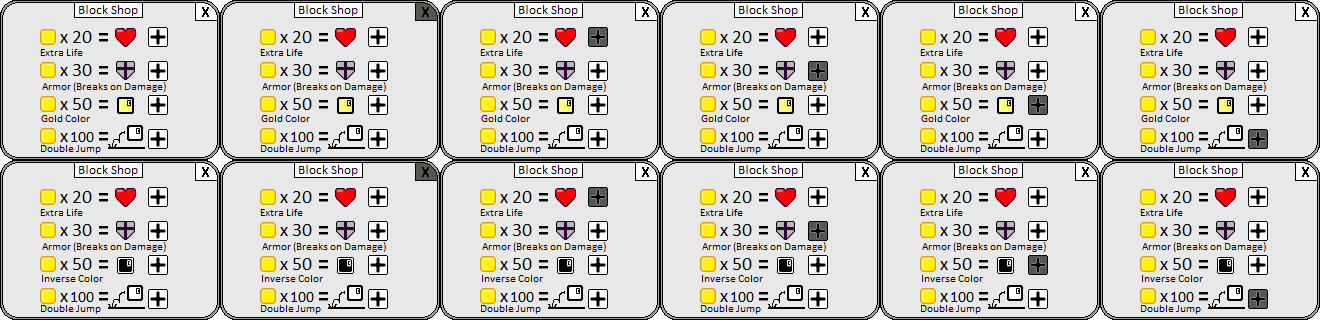
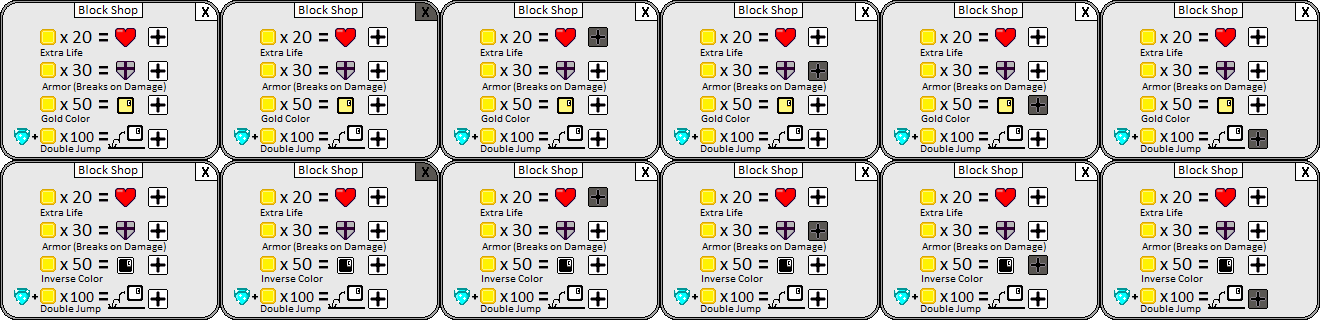
Diamond tracker and boss changes

diff --git a/Block Run/js/Levels.js b/Block Run/js/Levels.js
@@ -67,27 +67,39 @@ var level_1 = [
  ];
  
  var level_3 = [
-    '#                                                                                                    ###############################################################',
-    '#                                                                                                   K#                                                       #     #',
-    '#                                                                                         TTT        #                                                       #     #',
-    '#                                                o   o    oo                   o o                   #                                                       #     #',
-    '#S                                               #vvv#    __    E             _____                  #                                                       #     #',
-    '#                   o      oo       o            #####         #######                               #                                                       #     #',
-    '#                  ##      ##       ##     o  o    #                                                 #           o     o     o                               #     #',
-    '#         ####                             ####    #vvvvvvvvvvvvvvvvvv                               #    ##<   >#<    o    >#<   ##         o               #     #',
-    '#        #####                                     ###################   ##                          #   ###<   >#<   >#<   >#<   ###        v               #     #',
-    '#       ######vvvvvvvvvvvvvvvvvvvvv vvvvvvvvvvvvvvv#             #   L   ##                          L  ####vvvvv#vvvvv#vvvvv#vvvv####E     >#<E             L  P  #',
-    '################################### ##############################  ###################################################################################o  ##########', 
-    '###################################  K o   o   o   o   o   o   o H  #                                                                                 #   #        #',
-    '#                                  _________________________________                                                                                  #   #        #',   
-    '#                                                                                                                                                     #_  #        #',
-    '#                                                                                                                                                     #   #        #',
-    '#             o o o                                                                                                   o    vv    o                    #  o#        #',   
-    '#S                                                      o    oo     o                  o K o                         #### >##< ####S                  #  _#        #',   
-    '#  ooo       #######S                                 >##<  >##<  >##<               #########                 oo         >##<         oo                          #',
-    '#  oHo      #########          #     #    #            ^^    ^^    ^^               #         #               ___#         ^^         #___              o          #', 
-    '#  ooo     ###########        ##vvvvv#vvvv#E     #vvvvvvvvvvvvvvvvvvvvvvvv#        #           #                 #vvvvvvvvvvvvvvvvvvvv#              #######       #',  
-    '####################################################################################################################################################################',    
+    '#                                                                                                    ###############################################################                                                ',
+    '#                                                                                                   K#                                                       #     #                                                ',
+    '#                                                                                        TTT         #                                                       #     #                                                ',
+    '#                                                o   o    oo                   o o                   #                                                       #     #                                                ',
+    '#S                                               #vvv#    __   E              _____                  #                                                       #     #                                                ',
+    '#                   o      oo       o            #####         ######                                #                                                       #     #                                                ',
+    '#                  ##      ##       ##     o  o    #                                                 #           o     o     o                               #     #                                                ',
+    '#         ####                             ####    #vvvvvvvvvvvvvvvvvv   ##                          #    ##<   >#<    o    >#<   ##         o               #     #                                                ',
+    '#        #####                                     ###################   ##                          #   ###<   >#<   >#<   >#<   ###        v               #     #                                                ',
+    '#       ######vvvvvvvvvvvvvvvvvvvvv vvvvvvvvvvvvvvv#             #   L  ####                         L  ####vvvvv#vvvvv#vvvvv#vvvv####E     >#<E             L  P  #                                                ',
+    '################################### ##############################  ###################################################################################o  ##########                                                ', 
+    '###################################  K o   o   o   o   o   o   o H  #                                                                                 #   #        #                                                ',
+    '#                                  _________________________________                                                                                  #   #        #                                                ',   
+    '#                                                                                                                                                     #_  #        #                                                ',
+    '#             o o o                                                                                                                                   #   #        #                                                ',
+    '#             o H o                                                                                                   o    vv    o                    #  o#        #                                                ',   
+    '#S            o o o                                     o    oo     o                  o K o                         #### >##< ####S                  #  _#        #                                                ',   
+    '######        ##### S                                 >##<  >##<  >##<               #########                 oo         >##<         oo                          #                      TTTT                      ',
+    '#    #       #######           #     #    #            ^^    ^^    ^^               #         #               ___#         ^^         #___              o          #                                                ', 
+    '#  D l   M  #########         ##vvvvv#vvvv#E     #vvvvvvvvvvvvvvvvvvvvvvvv#        #           #                 #vvvvvvvvvvvvvvvvvvvv#              #######       #vvvvvvvvvvvvvvvvvvvvvvvvvvvvv                   ',  
+    '#____############################################################################################################################################################################################~                 ',    
+    '#                                                                                                                                                  T                                     T                         ',
+    '#                                                                                                                                                  T                                     T                         ',
+    '#____                                                               k                                                                              T        S              S             T                          ',
+    '#                                    T                              T                                                               T              T S                               S  kT                          ',
+    '#                                                                              o                                                           T       T       ~        ~        ~         ~ T                          ',
+    '#____                                        T              T                  T        T                                 o                        T            S                        T                          ',
+    '#                                                                                               o                        TTT                      TT  ~   S                              T                         ',
+    '#                                                    T                                          T                                                  T                 S                 S T                         ',
+    '#____            oooo                                       oo      oo                                         o                           T       l      ~                                     STT                T',
+    '#          T     TTTT                                       TT      TT                                T        T                                  TTT         ~       ~ S      ~       TTTTT     TT                T',
+    '#vvvvvvvvvvvvvvvvvvvvvvvvvvvvvvvvvvvvvvvvvvvvvvvvvvvvvvvvvvvvvvvvvvvvvvvvvvvvvvvvvvvvvvvvvvvvvvvvvvvvvvvvvvvvvvvvvvvvvvvvvvvvvvvvvvvvvvvvvvvvvvvvvvvvvvvvvvvvvvvvvvvvvvvvvvvvvvvvvvvvvvvvvvvvvvvvvvvvvvvvvvvvvvvvvvv',
+    '####################################################################################################################################################################################################################',   
  ];
  
  var level_4 = [
@@ -118,12 +130,12 @@ var level_1 = [
    '#                       ##############    ',
    '#                       #            #    ',
    '#                       #            #    ',
-   '#                       #            ##   ',
-   '#                       #            # #  ',
-   '#                 R     #            #  # ',
-   '#    ~     ~      ~     #            #   #',
-   '#                       #            #   #',
-   '#                       L   P     M  l D #',
+   '#                       #             #   ',
+   '#                       #              #  ',
+   '#                 R     #               # ',
+   '#    ~     ~      ~     #                #',
+   '#                       #                #',
+   '#                       L   D    M    P  #',
    '##########################################', 
    '##########################################',    
 ];

diff --git a/Block Run/js/Shop.js b/Block Run/js/Shop.js
@@ -11,6 +11,7 @@ function Button(x, y, w, h, cost, callback) {
         if(this.canBuy()) {
             callback();
             COINS -= this.cost;
+            if(this.cost == 100) DIAMONDS--; // Double Jump cost a diamond.
             saveGame();
         }
     }
@@ -20,7 +21,7 @@ function Button(x, y, w, h, cost, callback) {
         return MouseX > this.x && MouseY > this.y && MouseX < this.x + this.w && MouseY < this.y + this.h;
     }
 
-    this.canBuy = function() { return this.condition && COINS > this.cost; }
+    this.canBuy = function() { return this.condition && COINS >= this.cost; }
 
     this.drawDisabled = function() {
         if(!this.canBuy()) {
@@ -78,7 +79,7 @@ function Shop() {
             this.onButton = -1;
             armorBtn.condition = !ARMOR;
             colorBtn.condition = player.colors.length - 1 > player.unlockedColors;
-            doubleJumpBtn.condition = player.canDoubleJump == false;
+            doubleJumpBtn.condition = player.canDoubleJump == false && DIAMONDS > 0;
 
             // Determine which button our mouse is over and determine the frame to draw based on it.
             for (let i = 0; i < buttons.length; i++) {
@@ -137,12 +138,12 @@ function Npc(x, y, type, index) {
     this.frameX = 0;
     this.active = false;
     this.index = index;
-    this.text = "I'm a diamond miner. If you happen to find any you can \n bring them to me to unlock rare items!";
+    this.text = "I'm a diamond miner. You can use them to purchase \n rare items and abilities!";
 
     if(this.type == "Miner" && this.index == 1) this.text = "If you had Double Jump and Armor you might be able to get \n to the diamond up there somehow."
     if(this.type == "Miner" && this.index == 2) this.text = "Maybe there is another way to get over there. \n Looks like there is a path from underground."
     if(this.type == "Miner" && this.index == 4) this.text = "There must be a silver key around somewhere. Such a \n shinny diamond so close to us!"
-    if(this.type == "Miner" && this.index == 5) this.text = "Congratulations on beating Big Red! I hear if you can \n kill him without double jump you get another key."
+    if(this.type == "Miner" && this.index == 5) this.text = "Congratulations on beating Big Red and he had a diamond! \nThat may allow you to find more them in pervious levels."
     if(this.type == "Mayor" && this.index == 0) this.text = "That Big Red has blocked the way to to rest of our town! \n If someone could defeat him maybe the way will open up."
     if(this.type == "Mayor" && this.index == 2) this.text = "Seems like Big Red's older brother Dark Red has been \n locked away down here. Be carefull!"
 

diff --git a/Block Run/js/Map.js b/Block Run/js/Map.js
@@ -13,6 +13,7 @@ var scrollY = 0;
 var yLevel = 0;
 var yLevelMax = document.getElementById("canvas").height - 32 + 1;
 var UnlockedLevels = [true, true, false, false, false, false];
+var DiamondsCollected = [false, false, false, false, false, false];
 
 var canvas = document.getElementById("canvas");
 var ctx = canvas.getContext("2d");
@@ -64,7 +65,7 @@ function action() {
 }
 
 function saveGame(){
-    let gameData = {"COINS": COINS, "HEARTS": HEARTS, "ARMOR": ARMOR, "UnlockedLevels": UnlockedLevels, "UnlockedColors": player.unlockedColors, "DoubleJump": player.canDoubleJump};
+    let gameData = {"COINS": COINS, "HEARTS": HEARTS, "ARMOR": ARMOR, "DIAMONDS": DIAMONDS, "UnlockedLevels": UnlockedLevels, "DiamondsCollected": DiamondsCollected, "UnlockedColors": player.unlockedColors, "DoubleJump": player.canDoubleJump};
     localStorage.setItem("BlockRunData", JSON.stringify(gameData));
     console.log("Game Saved");
 }
@@ -75,7 +76,9 @@ function loadGame(){
         COINS = gameData.COINS;
         HEARTS = gameData.HEARTS;
         ARMOR = gameData.ARMOR;
+        DIAMONDS = gameData.DIAMONDS;
         UnlockedLevels = gameData.UnlockedLevels;
+        DiamondsCollected = gameData.DiamondsCollected || DiamondsCollected;
         player.unlockedColors = gameData.UnlockedColors;
         player.canDoubleJump = gameData.DoubleJump ? true : false;
         console.log("Game Loaded");
@@ -139,7 +142,7 @@ function createMap(index) {
             else if(char == '~') items.push(new FallingPlatform(x, y)); 
             else if(char == 'o') items.push(new Coin(x, y));
             else if(char == 'H') items.push(new Heart(x, y));
-            else if(char == 'D') items.push(new Diamond(x, y)); 
+            else if(char == 'D') items.push(new Diamond(x, y, index)); 
             else if(char == 'E') items.push(new Enemy(x, y, 40, 52, images["enemies"], 4, 5, 2, "red block"));
             else if(char == 'S') items.push(new Enemy(x, y, 30, 30, images["enemy_spike"], 4, 5, 2, "spike"));
             else if(char == 'P' || Number.parseInt(char)) items.push(new Portal(x, y, char));

diff --git a/Block Run/js/Player.js b/Block Run/js/Player.js
@@ -323,9 +323,10 @@ function Player() {
                 HEARTS++;
             }
             // Hearts
-            if( isItem(item,'diamond') && collide(this,item) ) {
+            if( isItem(item,'diamond') && collide(this,item) && item.collected == false ) {
                 items.splice(i, 1);
                 DIAMONDS++;
+                DiamondsCollected[item.index] = true;
             }       
             // Spikes
             if( isItem(item,'spikes') && collide(this,item) ) {
@@ -357,7 +358,7 @@ function Player() {
                 } 
             }
             // If hit by big red laser attack and the boss exist
-            if( boss && boss.attackTimer > 30 && boss.attackTimer < 50) {
+            if( boss && boss.attackTimer > 35 && boss.attackTimer < 50) {
                 if(collide(boss.atk, player)) {
                     this.die(true);
                 }

diff --git a/Block Run/js/Enemies.js b/Block Run/js/Enemies.js
@@ -104,6 +104,8 @@ function BigRed(x, y, index)
 			var attackFrame = Math.floor((110 - this.attackTimer)/10);
 			this.atk.x = this.frameY ? this.x + this.width : this.x - this.atk.width;
 			this.atk.y = this.y + 20;
+			if( this.attackTimer > 35 && this.attackTimer < 50) ctx.globalAlpha = 1;
+			else ctx.globalAlpha = 0.8;
 			ctx.drawImage(
 				this.atk.image, 
 				this.atk.width*this.frameY, 
@@ -113,6 +115,7 @@ function BigRed(x, y, index)
 				this.atk.x, 
 				this.y, this.atk.width, this.atk.height
 			);
+			ctx.globalAlpha = 1;
 		}
 		
 	}

diff --git a/Block Run/js/Items.js b/Block Run/js/Items.js
@@ -118,14 +118,18 @@ function Heart(x, y) {
     }
 }
 
-function Diamond(x, y) {
+function Diamond(x, y, index) {
    this.x = x + 10; 
    this.y = y + 10;
+   this.index = index;
    this.image = images['diamond'];
    this.width = 15; this.height = 15;
+   this.collected = DiamondsCollected[index] == true;
    
    this.draw = function() {
+      if(this.collected) ctx.globalAlpha = 0.20;
       ctx.drawImage(this.image, this.x - 10, this.y - 10);
+      if(this.collected) ctx.globalAlpha = 1;
    }
 }
  
